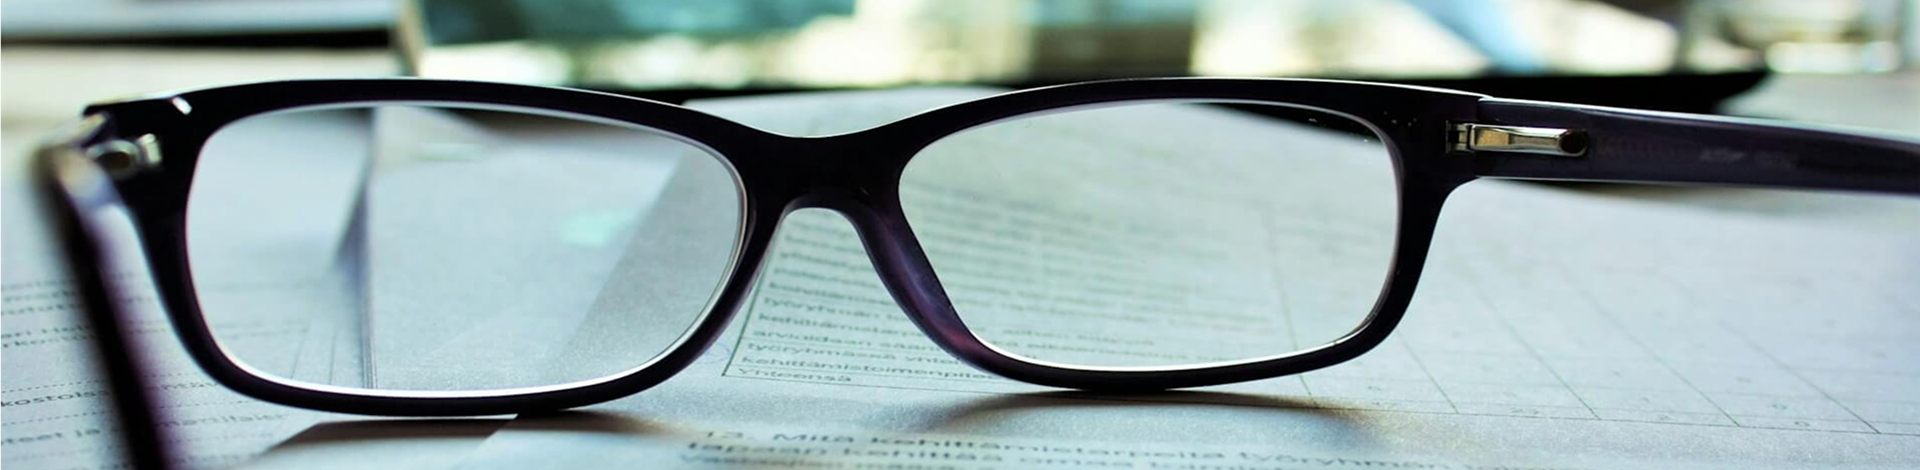
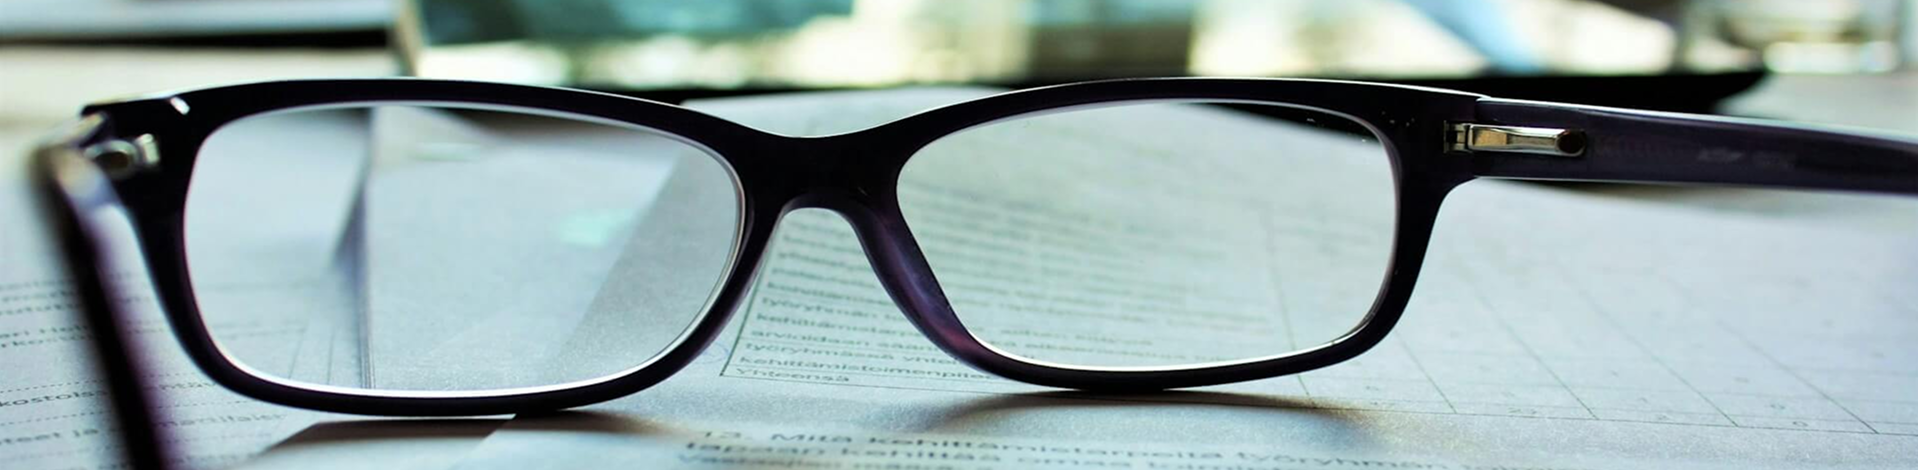
換頁及錨點漸進

diff --git a/js/change-page.js b/js/change-page.js
@@ -1,0 +1,35 @@
+
+    // 確保 DOM 結構載入完成
+    document.addEventListener('DOMContentLoaded', () => {
+        // 選擇所有指向內部頁面（以 .html 結尾且不包含外部協定）的連結
+        const internalLinks = document.querySelectorAll('a[href^="./"], a[href^="../"], a[href^="/"], a[href$=".html"], a[href$=".htm"]');
+        
+        // 排除掉不需淡出的連結，例如錨點連結 (#...) 和 target="_blank" 的連結
+        const filteredLinks = Array.from(internalLinks).filter(link => {
+            const href = link.getAttribute('href');
+            const target = link.getAttribute('target');
+            
+            // 排除錨點 (#...) 和 target="_blank" 的連結
+            return href && !href.startsWith('#') && target !== '_blank';
+        });
+
+        // 動畫持續時間，必須與 CSS 中的 `0.5s` 保持一致（單位為毫秒）
+        const transitionDuration = 300; 
+        const pageBody = document.body;
+
+        filteredLinks.forEach(link => {
+            link.addEventListener('click', (event) => {
+                // 1. 阻止瀏覽器立即跳轉頁面
+                event.preventDefault();
+                const targetUrl = link.getAttribute('href');
+
+                // 2. 將淡出類別添加到 body 元素
+                pageBody.classList.add('page-fade-out');
+
+                // 3. 等待動畫完成後才執行真正的頁面跳轉
+                setTimeout(() => {
+                    window.location.href = targetUrl;
+                }, transitionDuration);
+            });
+        });
+    });

diff --git a/css/contract.css b/css/contract.css
@@ -1,3 +1,25 @@
+/* 1. 定義淡出動畫：從完全不透明 (1) 變為完全透明 (0) */
+@keyframes fadeOut {
+    from { opacity: 1; }
+    to { opacity: 0; }
+}
+
+/* 2. 定義淡入動畫：從完全透明 (0) 變為完全不透明 (1) */
+@keyframes fadeIn {
+    from { opacity: 0; }
+    to { opacity: 1; }
+}
+
+/* 3. 預設讓頁面在載入時有一個淡入效果（提升新頁面載入時的柔和度） */
+body {
+    opacity: 0; /* 初始設定為透明 */
+    animation: fadeIn 0.3s ease-in-out forwards; /* 載入後執行 0.5 秒的淡入 */
+}
+
+/* 4. 定義用於連結點擊時的淡出類別 */
+.page-fade-out {
+    animation: fadeOut 0.3s ease-in-out forwards;
+}
 /* 基本設定 */
 
 html{

diff --git a/css/know-law-.css b/css/know-law-.css
@@ -1,3 +1,25 @@
+/* 1. 定義淡出動畫：從完全不透明 (1) 變為完全透明 (0) */
+@keyframes fadeOut {
+    from { opacity: 1; }
+    to { opacity: 0; }
+}
+
+/* 2. 定義淡入動畫：從完全透明 (0) 變為完全不透明 (1) */
+@keyframes fadeIn {
+    from { opacity: 0; }
+    to { opacity: 1; }
+}
+
+/* 3. 預設讓頁面在載入時有一個淡入效果（提升新頁面載入時的柔和度） */
+body {
+    opacity: 0; /* 初始設定為透明 */
+    animation: fadeIn 0.3s ease-in-out forwards; /* 載入後執行 0.5 秒的淡入 */
+}
+
+/* 4. 定義用於連結點擊時的淡出類別 */
+.page-fade-out {
+    animation: fadeOut 0.3s ease-in-out forwards;
+}
 /* 基本設定 */
 
 h4{

diff --git a/know-law-artical.html b/know-law-artical.html
@@ -1,5 +1,5 @@
 <!DOCTYPE html>
-<html lang="en">
+<html lang="en" id="top">
 <head>
     <meta charset="UTF-8">
     <meta name="viewport" content="width=device-width, initial-scale=1.0">
@@ -79,7 +79,7 @@
         <div class="banner-bg"></div>
     <!-- 回最上層按鈕 -->
         <div class="gotop">
-            <a href="./know-law-artical.html">
+            <a href="#top">
                 <img src="./sub-page-Img/know-law/gotop.svg" alt="">
             </a>
         </div>

diff --git a/know-law.html b/know-law.html
@@ -337,5 +337,6 @@
 
         <script src="./js/vendors/jquery/jquery-3.7.1.min.js"></script>
         <script src="./js/ph-knowlaw-scoll copy.js"></script>
+        <script src="./js/change-page.js"></script>
 </body>
 </html>

diff --git a/contract.html b/contract.html
@@ -383,5 +383,6 @@
 
     <script src="./js/vendors/jquery/jquery-3.7.1.min.js"></script>
         <script src="./js/ph-contract-scoll.js"></script>
+        <script src="./js/change-page.js"></script>
 </body>
 </html>

diff --git a/css/know-law-artical.css b/css/know-law-artical.css
@@ -6,6 +6,8 @@
 }
 html{
     position: relative;
+    /* 讓所有指向錨點 (anchor links) 的捲動動作變得平滑 */
+    scroll-behavior: smooth;
 }
 
 
